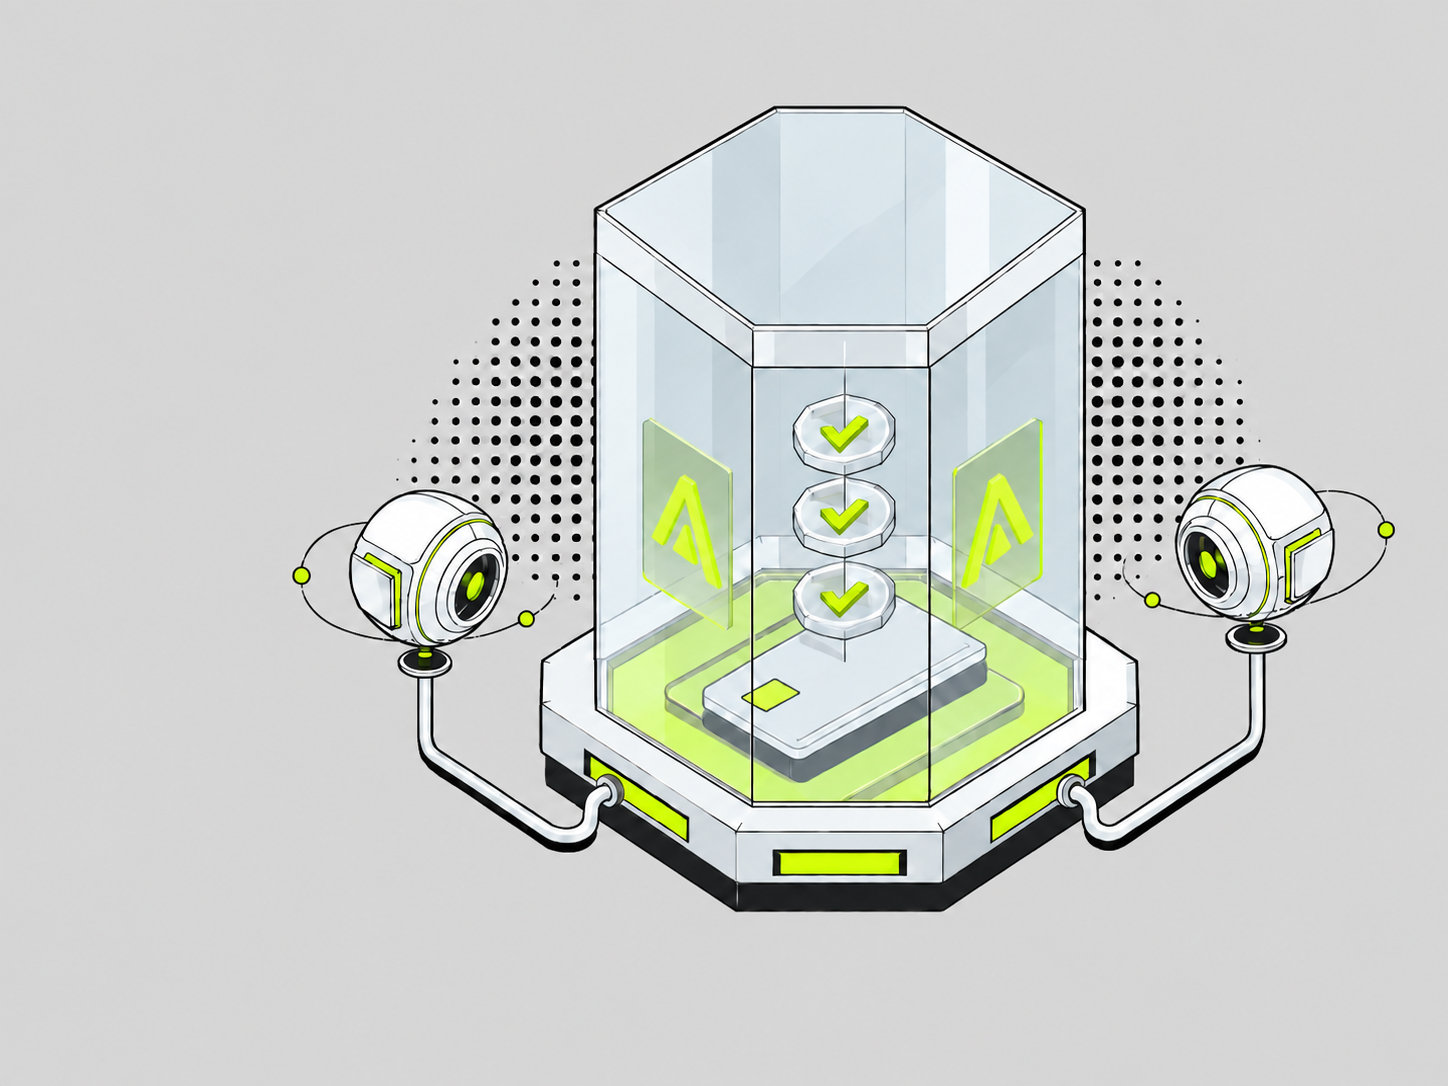
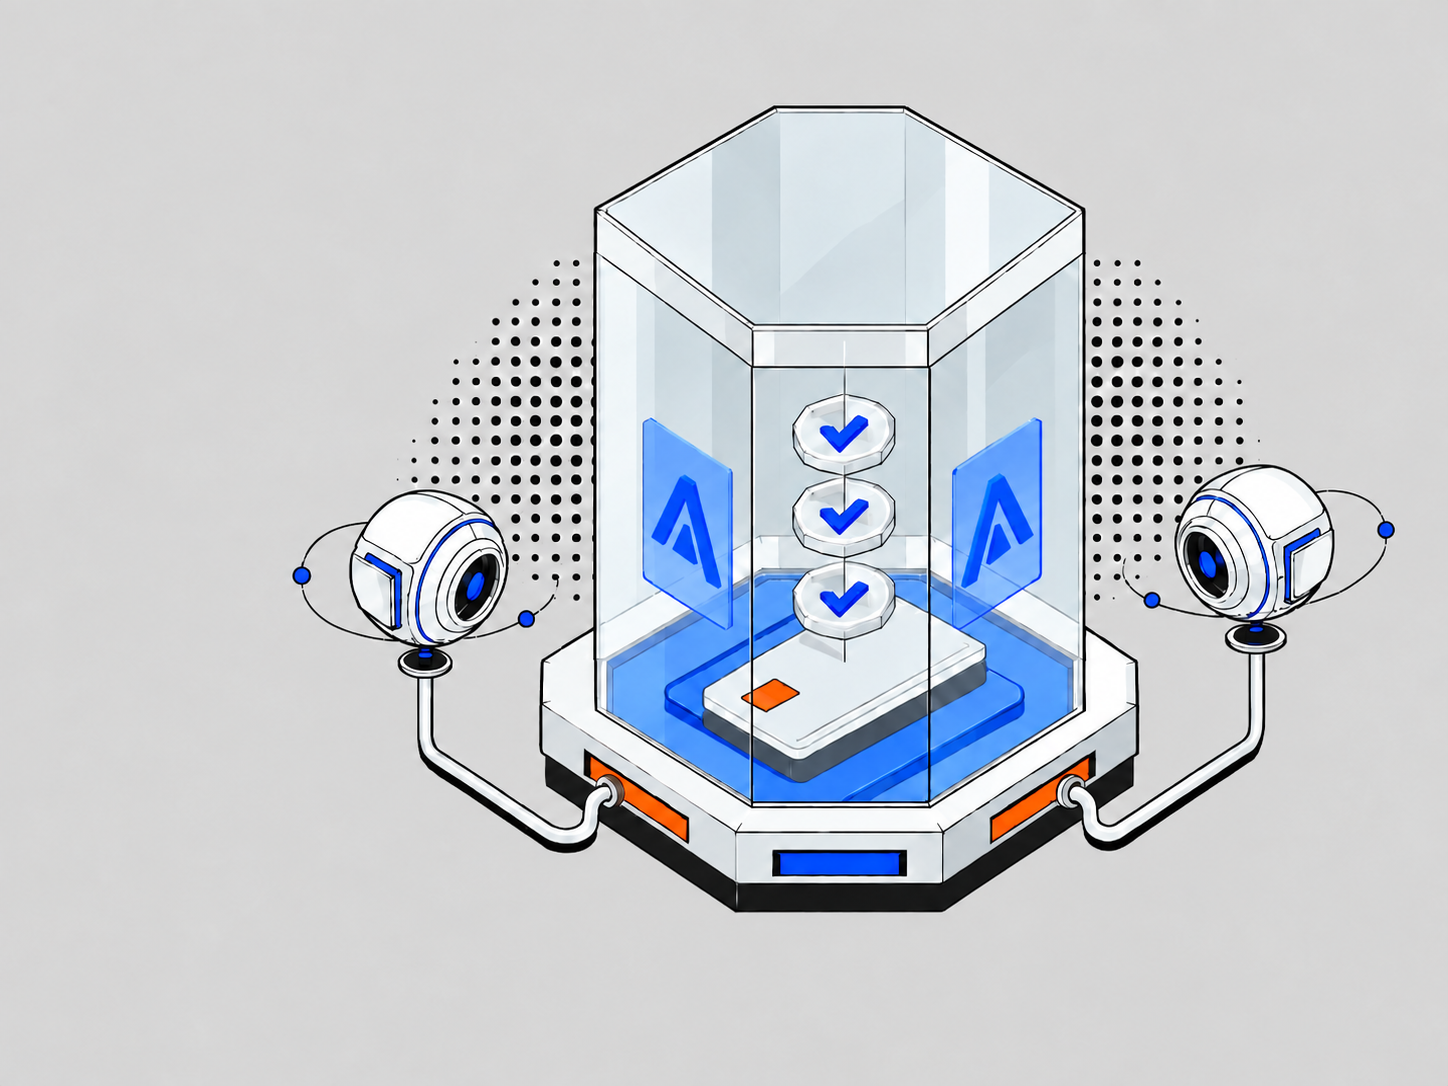
fix(landing): align hero with Advance brand palette

diff --git a/app/app/globals.css b/app/app/globals.css
@@ -13,29 +13,29 @@
 
 /* ============ Landing page ============ */
 .lp{
-  --blue:#c9ff18;
-  --orange:#c9ff18;
+  --blue:#0033ff;
+  --orange:#fd5200;
   --white:#ffffff;
-  --ink:#171918;
+  --ink:#0033ff;
   --line:var(--ink);
   min-height:100vh;
-  background:#050505;
+  background:var(--blue);
   color:var(--ink);
   padding:38px;
 }
 .lp-frame{
   max-width:1440px;margin:0 auto;
-  border:1.5px solid #333634;
+  border:1.5px solid var(--blue);
   border-radius:28px;
   overflow:clip;
-  background:#dadada;
+  background:var(--white);
 }
 .lp-header{
   position:relative;z-index:50;
   display:flex;align-items:center;justify-content:space-between;gap:16px;
   min-height:90px;margin:22px 24px 0;padding:14px 18px;
-  background:#dadada;
-  border:1.5px solid #333634;border-radius:20px;
+  background:var(--white);
+  border:1.5px solid var(--blue);border-radius:20px;
 }
 .lp-logo{
   font-size:29px;font-weight:900;letter-spacing:-1.6px;text-decoration:none;
@@ -44,27 +44,27 @@
 .lp-logo-mark{
   display:inline-grid;place-items:center;
   width:58px;height:58px;border-radius:12px;
-  background:var(--ink);color:var(--blue);font-size:27px;font-weight:900;
+  background:var(--blue);color:var(--white);font-size:27px;font-weight:900;
   border:2px solid var(--ink);
 }
 .lp-menu{width:48px;height:48px;display:grid;align-content:center;gap:7px;padding:8px;text-decoration:none}
 .lp-menu span{display:block;height:5px;border-radius:99px;background:var(--ink)}
 .lp-header-cta{border-radius:999px;font-weight:700}
 .lp-btn-arrow{width:16px;height:16px}
-.lp-btn-primary{background:var(--blue);border:1.5px solid var(--ink);border-radius:11px;font-weight:500;color:var(--ink)}
-.lp-btn-primary:hover{background:#b9ed0b}
+.lp-btn-primary{background:var(--orange);border:1.5px solid var(--blue);border-radius:11px;font-weight:700;color:var(--white)}
+.lp-btn-primary:hover{background:#e34800}
 .lp-btn-outline{border:2px solid var(--line);border-radius:999px;font-weight:700;color:var(--ink)}
 .lp-btn-dark{background:var(--ink)}
 .lp-btn-dark:hover{background:#000c2b}
 
-.lp-eyebrow{font-size:12px;font-weight:800;letter-spacing:2.5px;color:#43513b;margin:0 0 10px}
+.lp-eyebrow{font-size:12px;font-weight:800;letter-spacing:2.5px;color:var(--blue);margin:0 0 10px}
 .lp-eyebrow-light{color:#9db4ff}
 
 /* Hero */
 .lp-hero{position:relative;display:grid;grid-template-columns:minmax(0,.93fr) minmax(440px,1.07fr);align-items:center;min-height:700px;padding:38px 54px 56px;border-bottom:1.5px solid var(--line);overflow:hidden}
 .lp-hero-copy{position:relative;z-index:2;padding-left:54px}
-.lp-h1{font-size:clamp(58px,6.2vw,94px);line-height:1.03;letter-spacing:-5px;font-weight:800;margin:0 0 42px;color:#000}
-.lp-sub{max-width:580px;font-size:clamp(20px,2vw,28px);line-height:1.45;font-weight:650;letter-spacing:.3px;color:#111;margin:0 0 34px}
+.lp-h1{font-size:clamp(58px,6.2vw,94px);line-height:1.03;letter-spacing:-5px;font-weight:800;margin:0 0 42px;color:var(--blue)}
+.lp-sub{max-width:580px;font-size:clamp(20px,2vw,28px);line-height:1.45;font-weight:650;letter-spacing:.3px;color:var(--blue);margin:0 0 34px}
 .lp-hero-actions{display:flex;gap:12px;flex-wrap:wrap}
 .lp-hero-actions a{text-decoration:none}
 
@@ -106,8 +106,8 @@
   padding:28px 4px;border-top:2px solid var(--line);
 }
 .lp-step:first-child{border-top:0}
-.lp-step-num{font-size:clamp(40px,6vw,72px);font-weight:800;letter-spacing:-3px;color:#83a800;line-height:1;flex:none;width:110px}
-.lp-step-eyebrow{font-size:12px;font-weight:800;letter-spacing:2px;color:#637f00;margin:0 0 4px;text-transform:uppercase}
+.lp-step-num{font-size:clamp(40px,6vw,72px);font-weight:800;letter-spacing:-3px;color:var(--orange);line-height:1;flex:none;width:110px}
+.lp-step-eyebrow{font-size:12px;font-weight:800;letter-spacing:2px;color:var(--blue);margin:0 0 4px;text-transform:uppercase}
 .lp-step h3{margin:0 0 6px;font-size:22px;letter-spacing:-.5px}
 .lp-step p{margin:0;max-width:560px;color:#3c4668}
 
@@ -119,7 +119,7 @@
   font-weight:700;font-size:17px;
   display:flex;justify-content:space-between;align-items:center;gap:12px;
 }
-.lp-faq-item summary::after{content:'+';color:#637f00;font-size:22px;font-weight:800;flex:none}
+.lp-faq-item summary::after{content:'+';color:var(--orange);font-size:22px;font-weight:800;flex:none}
 .lp-faq-item[open] summary::after{content:'–'}
 .lp-faq-item p{margin:12px 0 0;color:#3c4668;font-size:15px}
 
@@ -134,7 +134,7 @@
   display:flex;justify-content:space-between;flex-wrap:wrap;gap:12px;
   padding:24px 40px;font-size:14px;color:#3c4668;background:var(--white);
 }
-.lp-footer a{font-weight:700;color:#637f00}
+.lp-footer a{font-weight:700;color:var(--blue)}
 
 @media(max-width:1000px){
   .lp{padding:18px}
